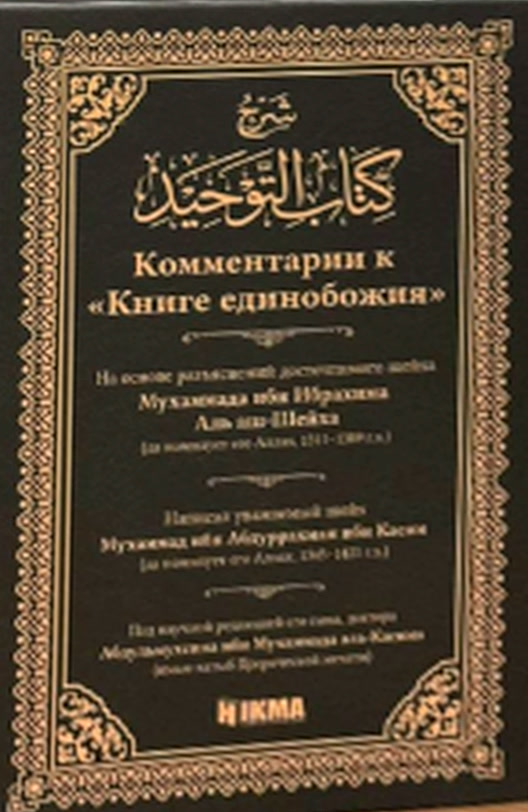
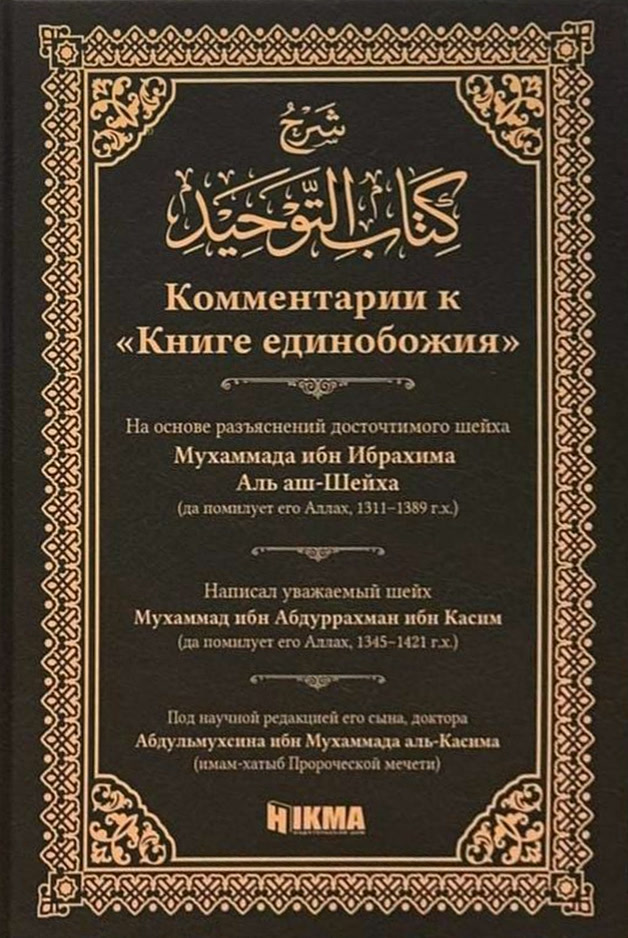
Обложка «Комментарии к Книге единобожия»: чёткое фото, поправлено описание

diff --git a/js/books.js b/js/books.js
@@ -18,7 +18,7 @@ window.BOOKS_SEED = [
   ['Акыда', 'Четыре правила', 'Абдурраззак ибн Абдульмухсин аль-Бадр', 450, 400, '', 'С толкованием доктора Абдурраззака ибн Абдульмухсина аль-Бадра.', 'assets/books/002.jpg', '#2b4590', 0.664],
   ['Акыда', 'Толкование книги «Три основы»', 'Мухаммад аль-‘Усеймин', 500, 450, '', 'Толкование книги «Три основы» шейха Мухаммада аль-‘Усеймина.', 'assets/books/003.jpg', '#2c7a4c', 0.6875],
   ['Акыда', 'Три основы', 'Салих аль-Фаузан', 500, 450, '', 'Разъяснение шейха Салиха аль-Фаузана.', 'assets/books/004.jpg', '#1f5f86', 0.655],
-  ['Таухид', 'Комментарии к «Книге единобожия»', 'Мухаммад ибн Абдуррахман ибн Касим', 1500, 1450, '', 'На основе разъяснений шейха Мухаммада ибн Ибрахима Аль аш-Шейха; под научной редакцией доктора Абдулмухсина аль-Касима.', 'assets/books/005.jpg?v=2', '#6b4e22', 0.65]
+  ['Таухид', 'Комментарии к «Книге единобожия»', 'Мухаммад ибн Абдуррахман ибн Касим', 1500, 1450, '', 'На основе разъяснений шейха Мухаммада ибн Ибрахима Аль аш-Шейха. Под научной редакцией доктора Абдульмухсина ибн Мухаммада аль-Касима.', 'assets/books/005.jpg?v=3', '#6b4e22', 0.67]
   // сюда добавляются книги
 ];
 
